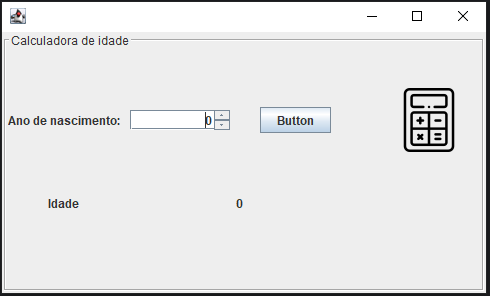
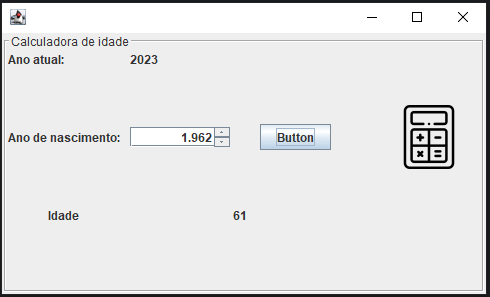
Adicionado ano atual do sistema automático
Agora o cálculo é feito com o ano atual do sistema,

diff --git a/calculadoraIdade/src/telaIdade.java b/calculadoraIdade/src/telaIdade.java
@@ -2,6 +2,10 @@ import javax.swing.*;
 import java.awt.*;
 import java.awt.event.ActionEvent;
 import java.awt.event.ActionListener;
+import java.beans.PropertyChangeEvent;
+import java.beans.PropertyChangeListener;
+import java.time.Year;
+import java.util.Date;
 
 public class telaIdade extends JFrame {
     private JSpinner txtAN;
@@ -9,14 +13,26 @@ public class telaIdade extends JFrame {
     private JPanel painelPrincipal;
     private JLabel label;
     private JLabel lblIdade;
+    private JLabel lblAnoAtual;
+
 
     public telaIdade() {
         btnCalc.addActionListener(new ActionListener() {
             @Override
             public void actionPerformed(ActionEvent e) {
-                int ano_nasc = Integer.parseInt(txtAN.getValue().toString());
-                int idade = 2023 - ano_nasc;
+                int anoAtual = Year.now().getValue();
+                int anoNasc = Integer.parseInt(txtAN.getValue().toString());
+                int idade = anoAtual - anoNasc;
                 lblIdade.setText(Integer.toString(idade));
+                lblAnoAtual.setText(Integer.toString(anoAtual));
+            }
+        });
+
+        lblAnoAtual.addPropertyChangeListener(new PropertyChangeListener() {
+            @Override
+            public void propertyChange(PropertyChangeEvent evt) {
+                int anoAtual = Year.now().getValue();
+                lblAnoAtual.setText(Integer.toString(anoAtual));
             }
         });
     }

diff --git a/calculadoraIdade/README.md b/calculadoraIdade/README.md
@@ -1,3 +1,5 @@
 Programinha que mostra uma calculadora de idade.
+Ela pega o ano atual do sistema, mostra na tela, e faz o calculo baseado nele.
 
 ![ImagemProjeto.PNG](ImagemProjeto.PNG)
+
